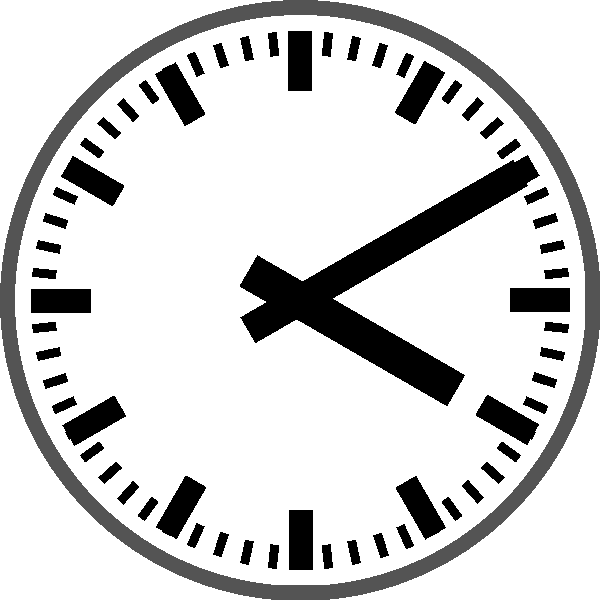
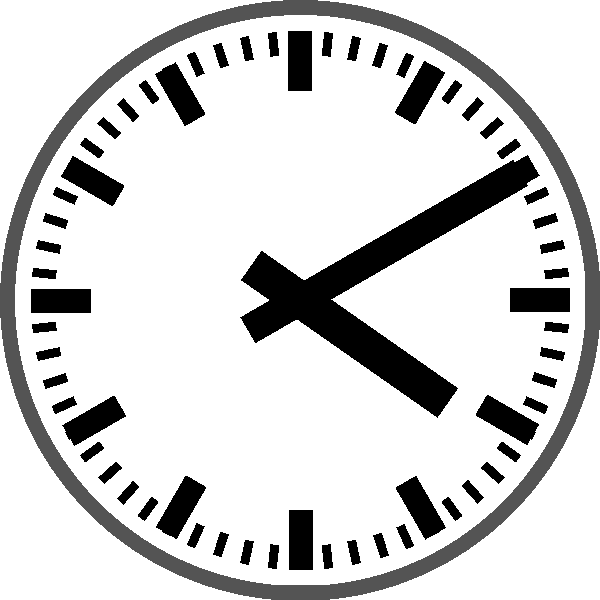
fixed hours - position

diff --git a/esercizio_orologio.py b/esercizio_orologio.py
@@ -86,14 +86,16 @@ def crea_lancetta_ore(angolo: int) -> Immagine:
     return ruota(lancetta_verticale, -(angolo))
 
 
-def angolo_ore(ore: int) -> int:
+def angolo_ore(ore: int, minuti: int) -> int:
     """
-    Definisce il grado di rotazione rispetto alle ore
+    Definisce il grado di rotazione della lancetta delle ore rispetto alle ore
+    e ai minuti
     
-    :param ore: la posizione della lancetta. Accetta input a 12 o 24 h
+    :param ore: l'ora desiderata. Accetta input a 12 o 24 h
+    :param minuti: i minuti desiderati
     :returns: l'angolo di apertura della lancetta rispetto alla posizione 0
     """
-    return (ore * 30) % 360
+    return ((ore * 30) % 360) + (angolo_minuti(minuti))//12
 
 
 def crea_tacca_minuti() -> Immagine:
@@ -174,7 +176,7 @@ def crea_orologio(ore: int, minuti: int) -> Immagine:
     :returns: un orologio stile FFS con l'ora e i minuti desiderati
     """
     return componi(
-        componi(crea_lancetta_ore(angolo_ore(ore)), 
+        componi(crea_lancetta_ore(angolo_ore(ore, minuti)), 
                 crea_lancetta_minuti(angolo_minuti(minuti))), 
         crea_quadrante())
 

diff --git a/esercizio_orologio_con_secondi.py b/esercizio_orologio_con_secondi.py
@@ -66,7 +66,7 @@ def angolo_secondi(secondi: int) -> int:
 
 
 def crea_orologio(ore: int, minuti: int, secondi: int) -> Immagine:
-    ore_minuti = componi(crea_lancetta_ore(angolo_ore(ore)), 
+    ore_minuti = componi(crea_lancetta_ore(angolo_ore(ore, minuti)), 
                          crea_lancetta_minuti(angolo_minuti(minuti)))
     lancette = componi(crea_lancetta_secondi(angolo_secondi(secondi)),
                        ore_minuti)
